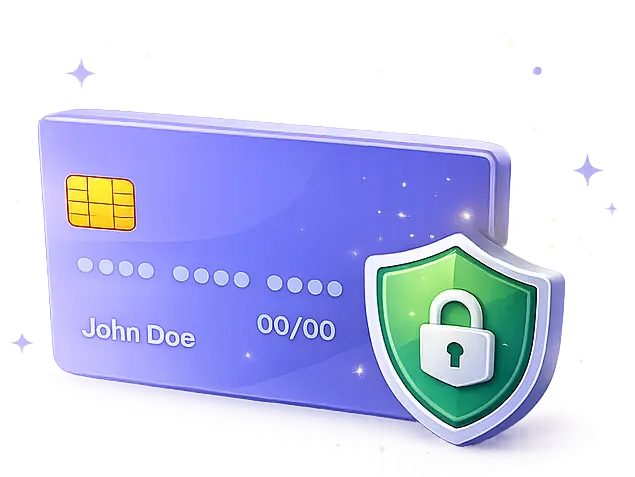
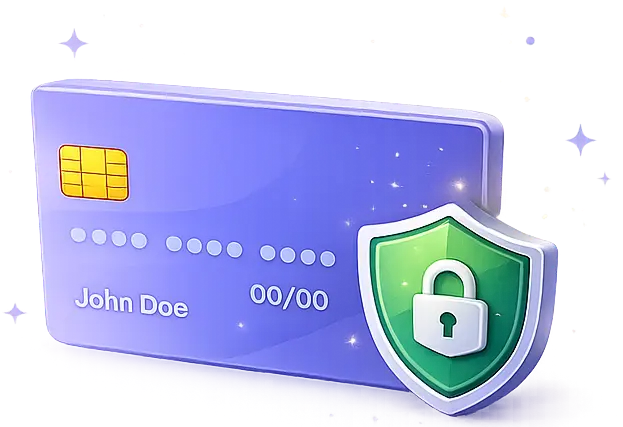
Payment tab: 2/3-1/3 grid layout, resized illustrations, spacing
- pmCardRow uses a 2fr/1fr grid so the left content is exactly 2/3
  width and the illustration exactly 1/3, instead of an approximate
  percentage of the remaining flex space
- card illustration at 75% of its column, shield illustration at 56%
- info box sentence and each security checklist line kept to one row
- wider gap between the two checklist columns and between rows

diff --git a/src/pages/company/credit-management/styles/credits.module.scss b/src/pages/company/credit-management/styles/credits.module.scss
@@ -1208,28 +1208,34 @@ $ease: cubic-bezier(.2, .7, .2, 1);
     display: flex;
     gap: .6em;
     align-items: center;
+    white-space: nowrap;
 
     svg { color: $green; flex: none; }
   }
 }
 
 .pmCardRow {
-  display: flex;
+  display: grid;
+  grid-template-columns: 2fr 1fr;
   align-items: flex-start;
-  justify-content: space-between;
   gap: 20px;
+
+  @media (max-width: 880px) {
+    grid-template-columns: 1fr;
+  }
 }
 
 .pmCardMain {
-  flex: 1;
   min-width: 0;
 }
 
 .pmCardArt {
-  width: 168px;
+  width: 75%;
   height: auto;
-  flex: none;
+  justify-self: center;
   margin: -6px -6px 0 0;
+
+  &.artSmall { width: 56%; }
 
   @media (max-width: 880px) {
     display: none;
@@ -1250,7 +1256,7 @@ $ease: cubic-bezier(.2, .7, .2, 1);
 
 .infoBox {
   display: flex;
-  align-items: flex-start;
+  align-items: center;
   gap: .7em;
   background: $blue-bg;
   border-radius: $r-md;
@@ -1259,7 +1265,13 @@ $ease: cubic-bezier(.2, .7, .2, 1);
   color: $ink;
   margin-bottom: 14px;
 
-  svg { color: $blue; flex: none; margin-top: 2px; }
+  svg { color: $blue; flex: none; }
+
+  span { white-space: nowrap; }
+
+  @media (max-width: 880px) {
+    span { white-space: normal; }
+  }
 }
 
 .addCardBox {
@@ -1284,9 +1296,12 @@ $ease: cubic-bezier(.2, .7, .2, 1);
 
 .secureGrid {
   grid-template-columns: 1fr 1fr !important;
+  column-gap: 60px !important;
+  row-gap: 22px !important;
 
   @media (max-width: 560px) {
     grid-template-columns: 1fr !important;
+    column-gap: 9px !important;
   }
 }
 

diff --git a/src/pages/company/credit-management/components/PaymentMethods.jsx b/src/pages/company/credit-management/components/PaymentMethods.jsx
@@ -116,7 +116,7 @@ const PaymentMethods = ({ onNotify = () => {} }) => {
             </ul>
           </div>
 
-          <img src={shieldLockArt} alt="" className={styles.pmCardArt} />
+          <img src={shieldLockArt} alt="" className={`${styles.pmCardArt} ${styles.artSmall}`} />
         </div>
       </div>
 
